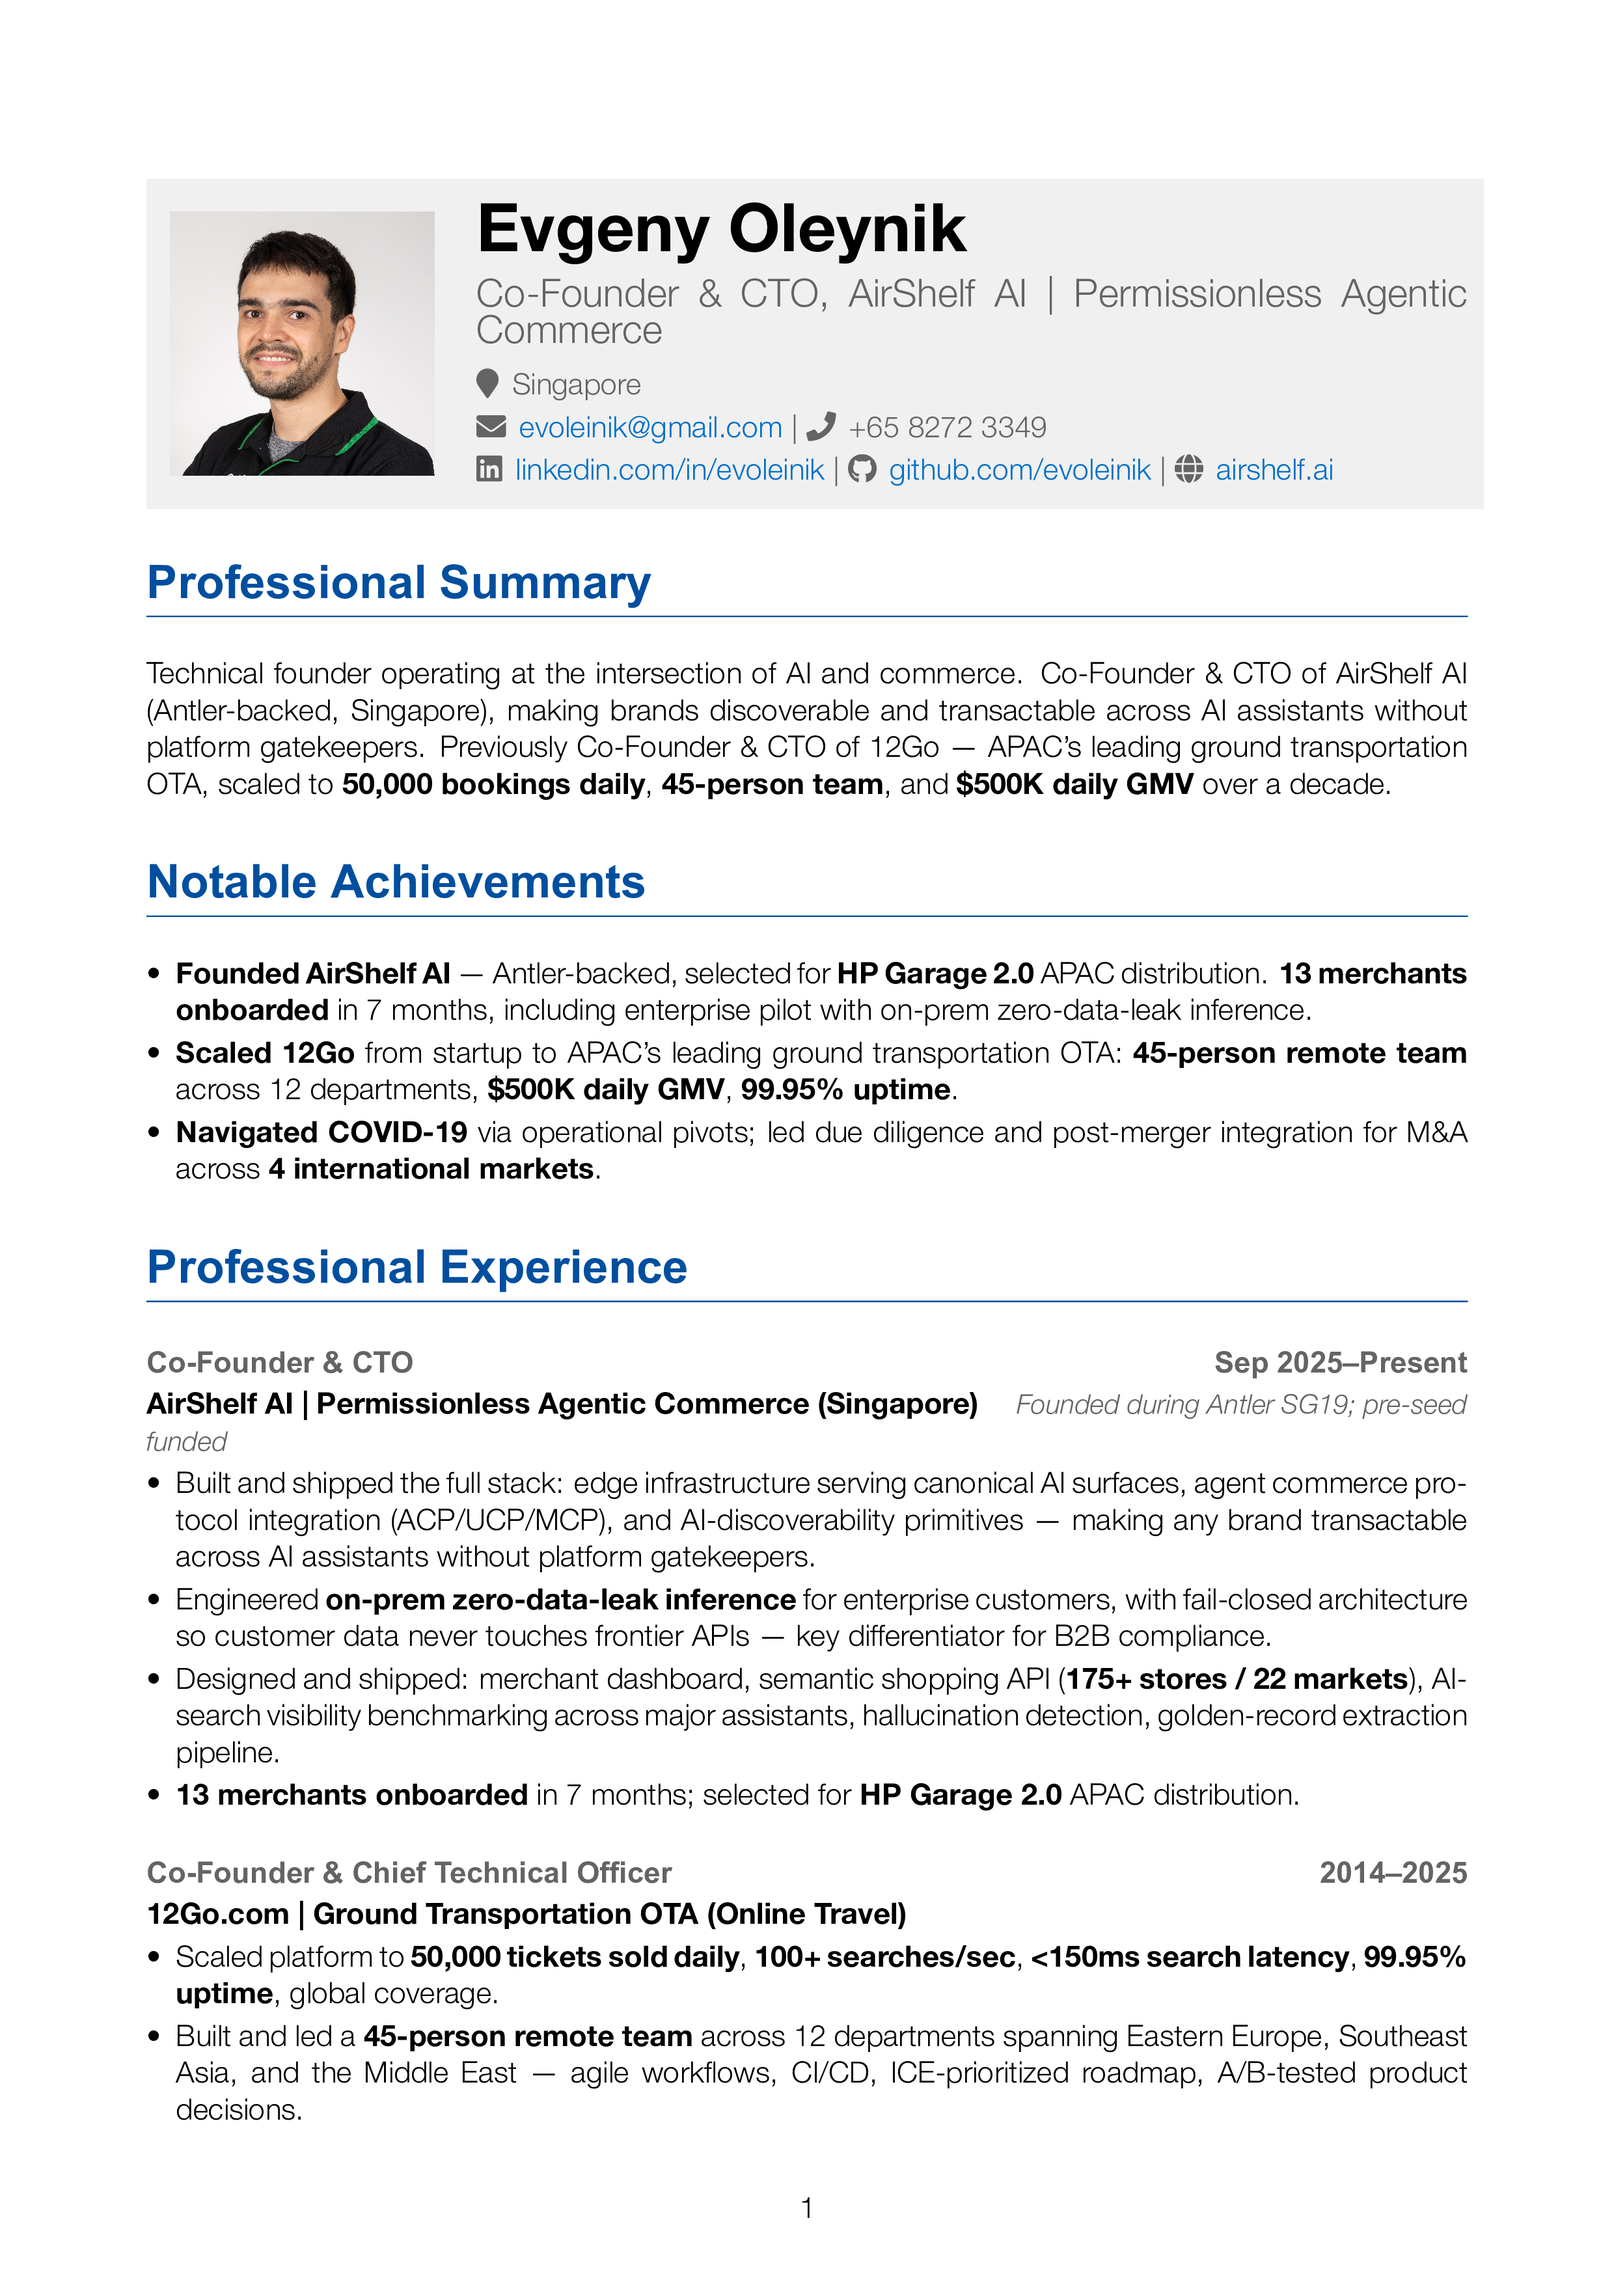
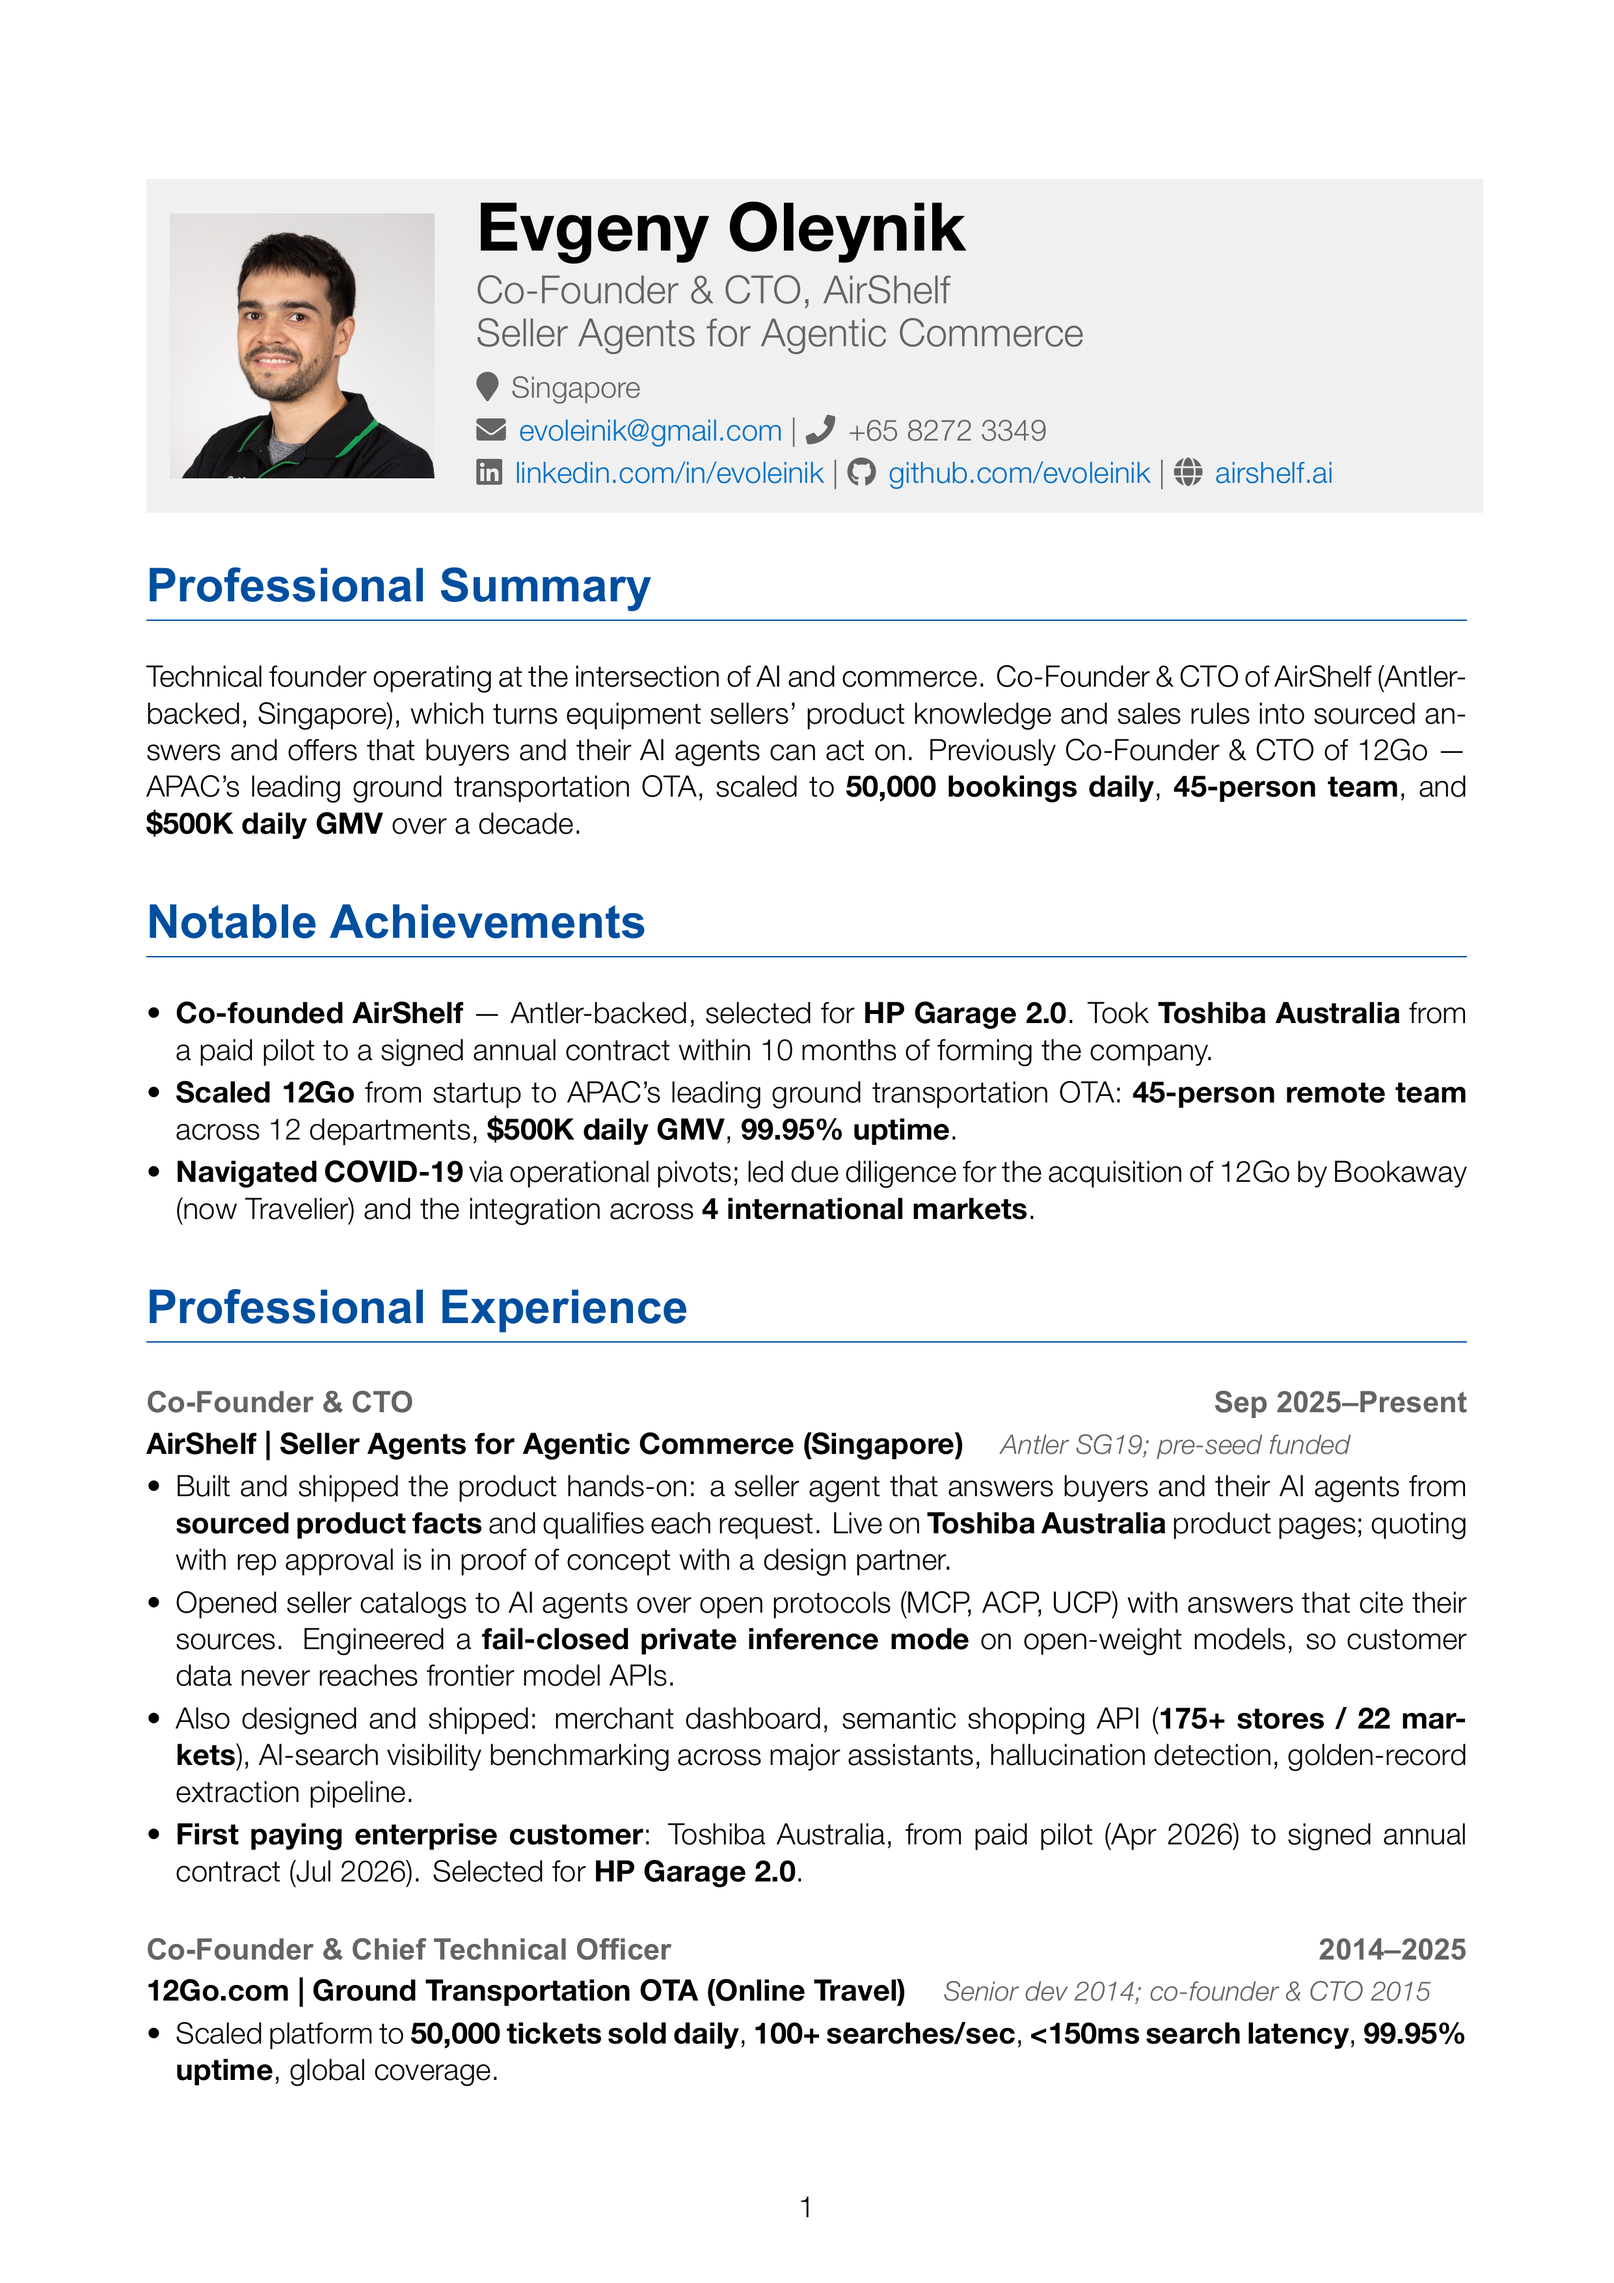
feat: align CV with current AirShelf positioning and traction
Seller agents instead of permissionless commerce. Toshiba Australia
contract replaces the 13-merchants line. 12Go entry names the 2014
join as senior developer and the Bookaway acquisition.

diff --git a/cv-2026.tex b/cv-2026.tex
@@ -65,7 +65,7 @@
         \end{minipage}\hspace{0.5em}\hfill
         \begin{minipage}[c]{0.75\textwidth}
             {\Huge\textbf{Evgeny Oleynik}} \\[0.3em]
-            {\Large\color{secondarycolor} Co-Founder \& CTO, AirShelf AI | Permissionless Agentic Commerce} \\[0.5em]
+            {\Large\color{secondarycolor} Co-Founder \& CTO, AirShelf \\[0.15em] Seller Agents for Agentic Commerce} \\[0.5em]
             {\color{secondarycolor}
             \faMapMarker \, Singapore \\[0.2em]
             \faEnvelope \, \href{mailto:evoleinik@gmail.com}{evoleinik@gmail.com} | \faPhone \, +65 8272 3349 \\[0.2em]
@@ -78,35 +78,35 @@
 % Professional Summary
 \section*{Professional Summary}
 {\setstretch{1.2}
-Technical founder operating at the intersection of AI and commerce. Co-Founder \& CTO of AirShelf AI (Antler-backed, Singapore), making brands discoverable and transactable across AI assistants without platform gatekeepers. Previously Co-Founder \& CTO of 12Go --- APAC's leading ground transportation OTA, scaled to \textbf{50,000 bookings daily}, \textbf{45-person team}, and \textbf{\$500K daily GMV} over a decade.}
+Technical founder operating at the intersection of AI and commerce. Co-Founder \& CTO of AirShelf (Antler-backed, Singapore), which turns equipment sellers' product knowledge and sales rules into sourced answers and offers that buyers and their AI agents can act on. Previously Co-Founder \& CTO of 12Go --- APAC's leading ground transportation OTA, scaled to \textbf{50,000 bookings daily}, \textbf{45-person team}, and \textbf{\$500K daily GMV} over a decade.}
 
 % Notable Achievements
 \section*{Notable Achievements}
 \begin{itemize}
-    \item \textbf{Founded AirShelf AI} --- Antler-backed, selected for \textbf{HP Garage 2.0} APAC distribution. \textbf{13 merchants onboarded} in 7 months, including enterprise pilot with on-prem zero-data-leak inference.
+    \item \textbf{Co-founded AirShelf} --- Antler-backed, selected for \textbf{HP Garage 2.0}. Took \textbf{Toshiba Australia} from a paid pilot to a signed annual contract within 10 months of forming the company.
     \item \textbf{Scaled 12Go} from startup to APAC's leading ground transportation OTA: \textbf{45-person remote team} across 12 departments, \textbf{\$500K daily GMV}, \textbf{99.95\% uptime}.
-    \item \textbf{Navigated COVID-19} via operational pivots; led due diligence and post-merger integration for M\&A across \textbf{4 international markets}.
+    \item \textbf{Navigated COVID-19} via operational pivots; led due diligence for the acquisition of 12Go by Bookaway (now Travelier) and the integration across \textbf{4 international markets}.
 \end{itemize}
 
 % Professional Experience
 \section*{Professional Experience}
 
 \subsection*{Co-Founder \& CTO \hfill Sep 2025--Present}
-\textbf{AirShelf AI | Permissionless Agentic Commerce (Singapore)} \quad {\small\color{secondarycolor}\textit{Founded during Antler SG19; pre-seed funded}}
+\textbf{AirShelf | Seller Agents for Agentic Commerce (Singapore)} \quad {\small\color{secondarycolor}\textit{Antler SG19; pre-seed funded}}
 \begin{itemize}
-    \item Built and shipped the full stack: edge infrastructure serving canonical AI surfaces, agent commerce protocol integration (ACP/UCP/MCP), and AI-discoverability primitives --- making any brand transactable across AI assistants without platform gatekeepers.
-    \item Engineered \textbf{on-prem zero-data-leak inference} for enterprise customers, with fail-closed architecture so customer data never touches frontier APIs --- key differentiator for B2B compliance.
-    \item Designed and shipped: merchant dashboard, semantic shopping API (\textbf{175+ stores / 22 markets}), AI-search visibility benchmarking across major assistants, hallucination detection, golden-record extraction pipeline.
-    \item \textbf{13 merchants onboarded} in 7 months; selected for \textbf{HP Garage 2.0} APAC distribution.
+    \item Built and shipped the product hands-on: a seller agent that answers buyers and their AI agents from \textbf{sourced product facts} and qualifies each request. Live on \textbf{Toshiba Australia} product pages; quoting with rep approval is in proof of concept with a design partner.
+    \item Opened seller catalogs to AI agents over open protocols (MCP, ACP, UCP) with answers that cite their sources. Engineered a \textbf{fail-closed private inference mode} on open-weight models, so customer data never reaches frontier model APIs.
+    \item Also designed and shipped: merchant dashboard, semantic shopping API (\textbf{175+ stores / 22 markets}), AI-search visibility benchmarking across major assistants, hallucination detection, golden-record extraction pipeline.
+    \item \textbf{First paying enterprise customer}: Toshiba Australia, from paid pilot (Apr 2026) to signed annual contract (Jul 2026). Selected for \textbf{HP Garage 2.0}.
 \end{itemize}
 
 \subsection*{Co-Founder \& Chief Technical Officer \hfill 2014--2025}
-\textbf{12Go.com | Ground Transportation OTA (Online Travel)}
+\textbf{12Go.com | Ground Transportation OTA (Online Travel)} \quad {\small\color{secondarycolor}\textit{Senior dev 2014; co-founder \& CTO 2015}}
 \begin{itemize}
     \item Scaled platform to \textbf{50,000 tickets sold daily}, \textbf{100+ searches/sec}, \textbf{<150ms search latency}, \textbf{99.95\% uptime}, global coverage.
     \item Built and led a \textbf{45-person remote team} across 12 departments spanning Eastern Europe, Southeast Asia, and the Middle East --- agile workflows, CI/CD, ICE-prioritized roadmap, A/B-tested product decisions.
     \item Architected the stack end-to-end: search API + sharded caches + pricing engine over \textbf{150+ supplier integrations}, web app (Vue.js, Nuxt) and a mobile app delivering \textbf{30\% of bookings} in year one, all on AWS (EC2, RDS, S3, CloudFront) with Grafana/Datadog/Clickhouse observability.
-    \item Navigated COVID-19 via operational pivots; led due diligence and post-merger integration for the M\&A with an Israeli group, unifying operations across \textbf{Israel, Croatia, Argentina, and Brazil}.
+    \item Navigated COVID-19 via operational pivots; led due diligence for the acquisition by Bookaway (now Travelier). My team then unified inventory, BI and finance reporting across \textbf{Israel, Croatia, Argentina, and Brazil}.
 \end{itemize}
 
 \subsection*{Co-Founder \& CTO \hfill 2011--2012}
@@ -115,7 +115,7 @@ Technical founder operating at the intersection of AI and commerce. Co-Founder \
 % Skills
 \section*{Skills \& Expertise}
 \begin{itemize}
-    \item \textbf{AI \& LLM Integration}: Production systems across all major LLM providers (Anthropic, OpenAI, Google, Perplexity). On-prem GPU inference with open-source models. Semantic search, structured extraction, hallucination detection, agent commerce protocols (ACP, UCP, MCP).
+    \item \textbf{AI \& LLM Integration}: Production systems across all major LLM providers (Anthropic, OpenAI, Google, Perplexity). Private GPU inference with open-weight models. Semantic search, structured extraction, hallucination detection, agent commerce protocols (ACP, UCP, MCP).
     \item \textbf{Full-Stack}: TypeScript, Next.js, React, Node.js, PostgreSQL, Prisma, Redis, Vercel.
     \item \textbf{System Architecture}: Designing low-latency, high-availability systems. Edge proxies, API design, caching, real-time pipelines.
     \item \textbf{Cloud \& Infrastructure}: AWS (EC2, RDS, S3, CloudFront), Vercel, Neon (serverless Postgres), Docker, K3s. Monitoring: Grafana, Datadog, Axiom.
